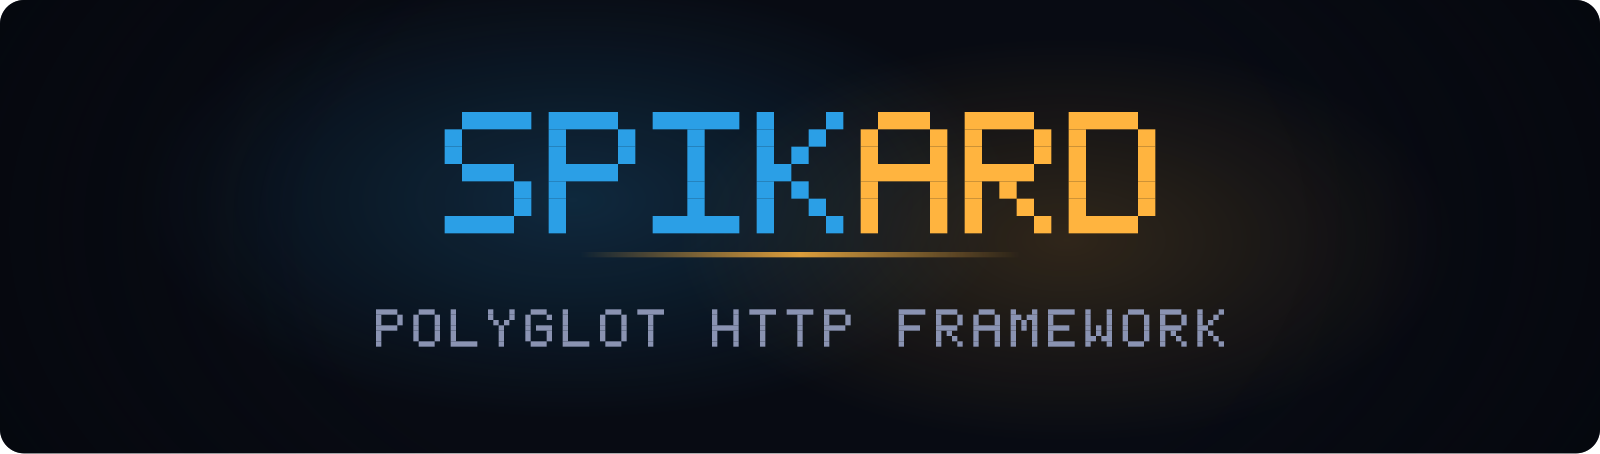
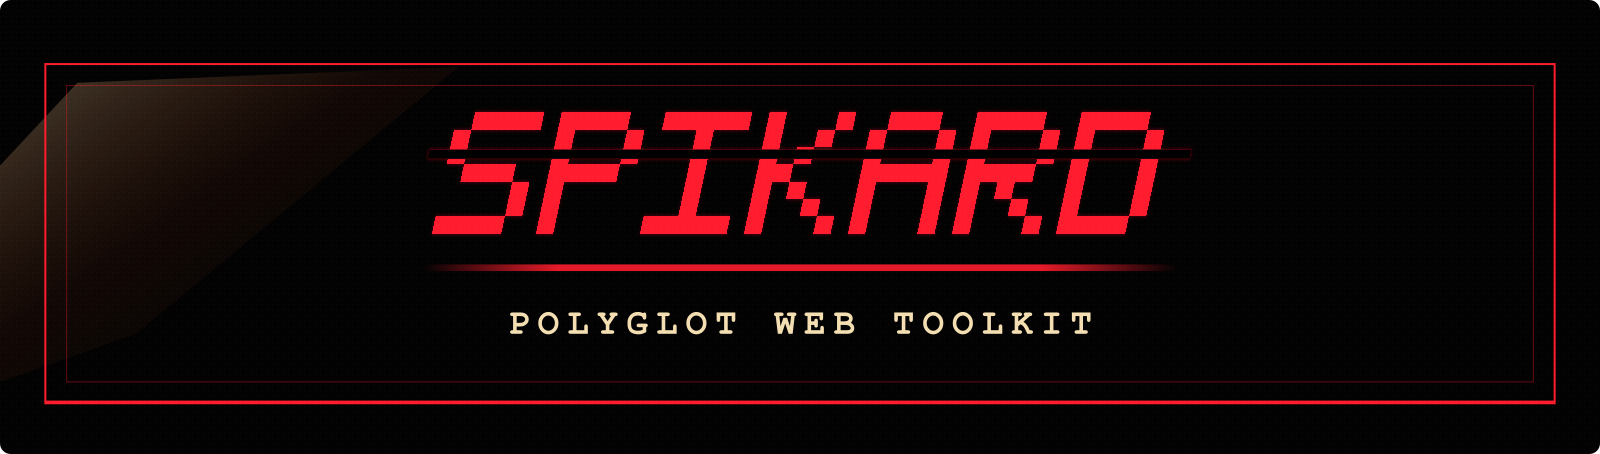
docs: refresh Spikard branding assets

diff --git a/docs/index.md b/docs/index.md
@@ -1,6 +1,6 @@
 # Spikard Documentation
 
-Spikard is a polyglot API toolkit with a Rust core and language bindings for 14 languages: Python, TypeScript/Node, Ruby, PHP, Elixir, Go, Java, C#, Kotlin, Dart, Swift, Zig, C, and WebAssembly. It keeps routing, middleware, validation, and streaming semantics identical across languages so teams can mix runtimes without relearning frameworks.
+Spikard is a polyglot web toolkit with a Rust core and language bindings for 14 languages: Python, TypeScript/Node, Ruby, PHP, Elixir, Go, Java, C#, Kotlin, Dart, Swift, Zig, C, and WebAssembly. It keeps routing, middleware, validation, and streaming semantics identical across languages so teams can mix runtimes without relearning frameworks.
 
 ## Hello Route (pick a binding)
 

diff --git a/docs/roadmap.md b/docs/roadmap.md
@@ -1,6 +1,6 @@
 # Roadmap
 
-Spikard is a Rust-first, polyglot HTTP framework: the Rust core owns correctness and
+Spikard is a Rust-first, polyglot web toolkit: the Rust core owns correctness and
 performance, and thin bindings expose the same behavior to every supported language.
 This roadmap extends that model beyond HTTP into a broader **service toolbox** — the
 same "Rust owns correctness, bindings stay thin" contract applied to storage, message